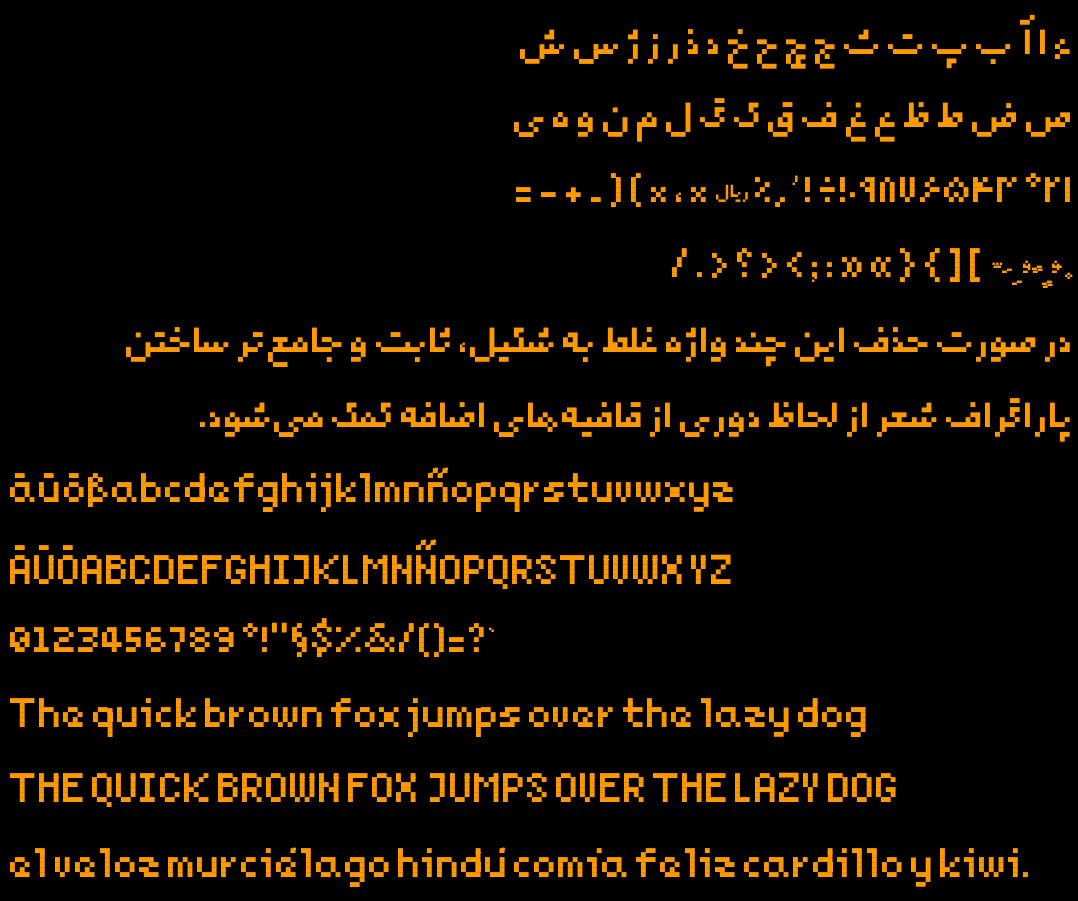
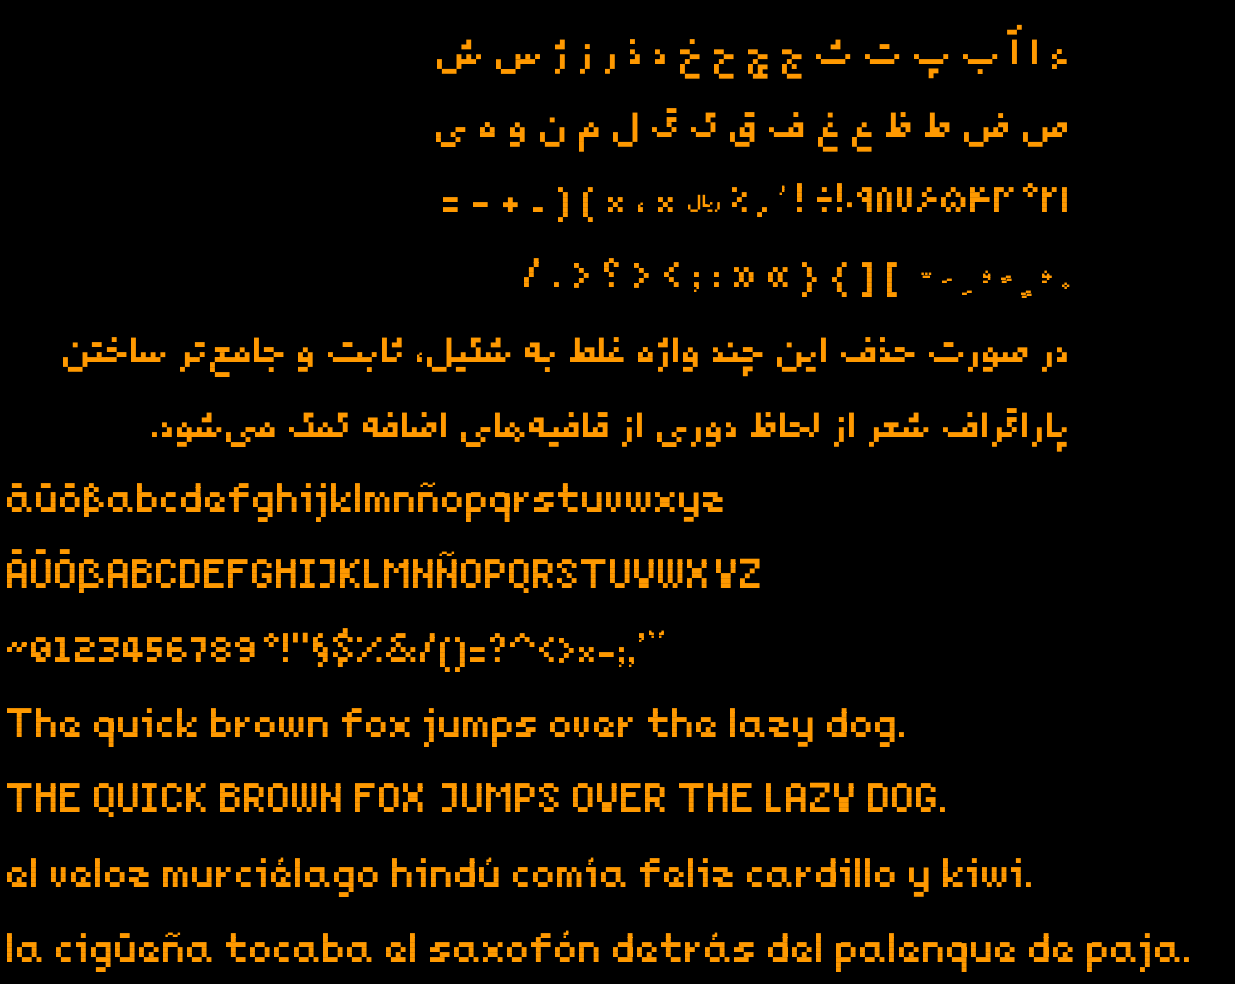
Add GSUB lookup tables for Arabic script
Including "init", "medi", "fina", "isol"

Ref #1

diff --git a/README.md b/README.md
@@ -40,8 +40,9 @@ A font file should be generated in the same folder called `noqte.ttf`.
 Please report them on the repository or email me. The following problems are known to me:
 
 - There is no kerning
-- There are no anchors
-- Diacritics are not well-positioned
+- <s>There are no anchors</s>: top and bottom anchors added back in January 2024
+- <s>Diacritics are not well-positioned</s>: positioning improved using the aforementioned anchors
+- Lookup tables still incomplete
 
 ## Test
 There is a development script and an SDL test file included. To watch the changes and rebuild do:
